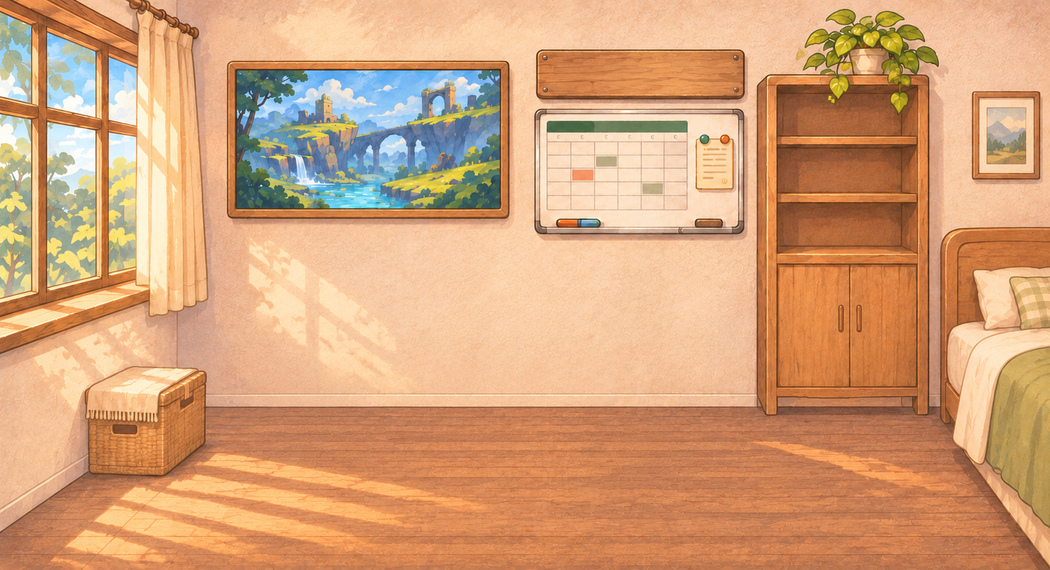
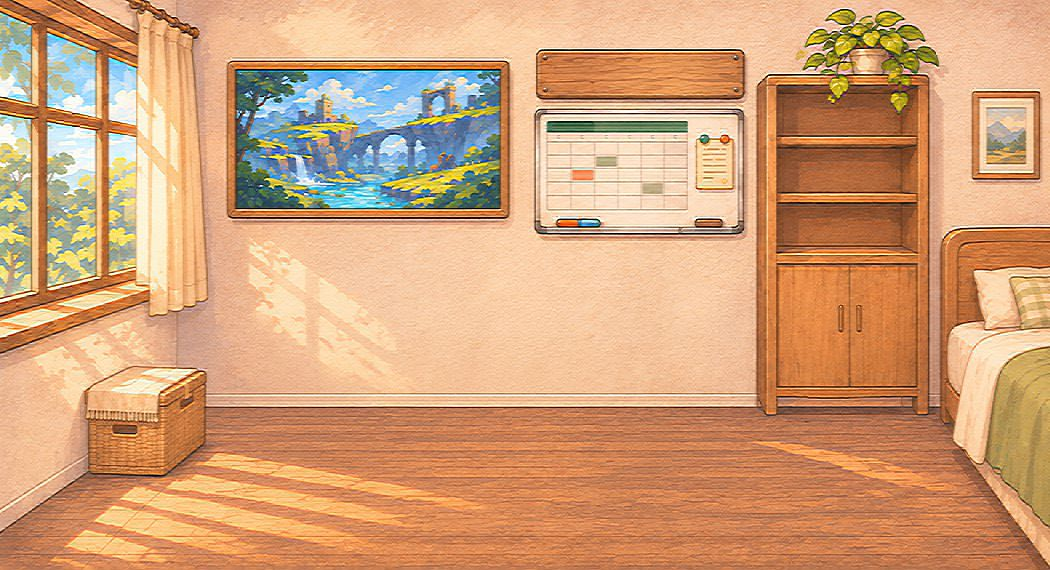
起步小屋与自家背景改存压缩图，图集不再修补透明边缘
- home 由 371KB 压到 140KB（q82）：它是 0.94 bit/像素的高质量图，压缩后
  在 350×190 画框里看不出差别
- atlas 关闭「修补透明边缘」：调色板 PNG 不再被拆成 32 位 RGBA 重编码，
  包内从 814KB 回到 507KB
- 关掉修补后透明像素只剩一个调色板项，顺手把它从纯黑改成边界色的加权
  平均（127,76,46），避免双线性过滤把黑边渗到人物轮廓上
- 主包 4045KB → 3503KB，余量 593KB

diff --git a/creator/assets/scripts/core/Studio.ts b/creator/assets/scripts/core/Studio.ts
@@ -9,7 +9,7 @@ export { ECONOMY };
 
 // Build version: bumped on every code change so the running preview can be matched against source.
 // Check the in-game top bar, the repo-root VERSION file, or a git tag to confirm which build is live.
-export const VERSION = '0.4.44';
+export const VERSION = '0.4.45';
 
 // Six quality dimensions. Creativity and stability carry extra mechanics: stability is scored from the
 // defects still open, and testing only decides how many of them are found in time to be fixed.
